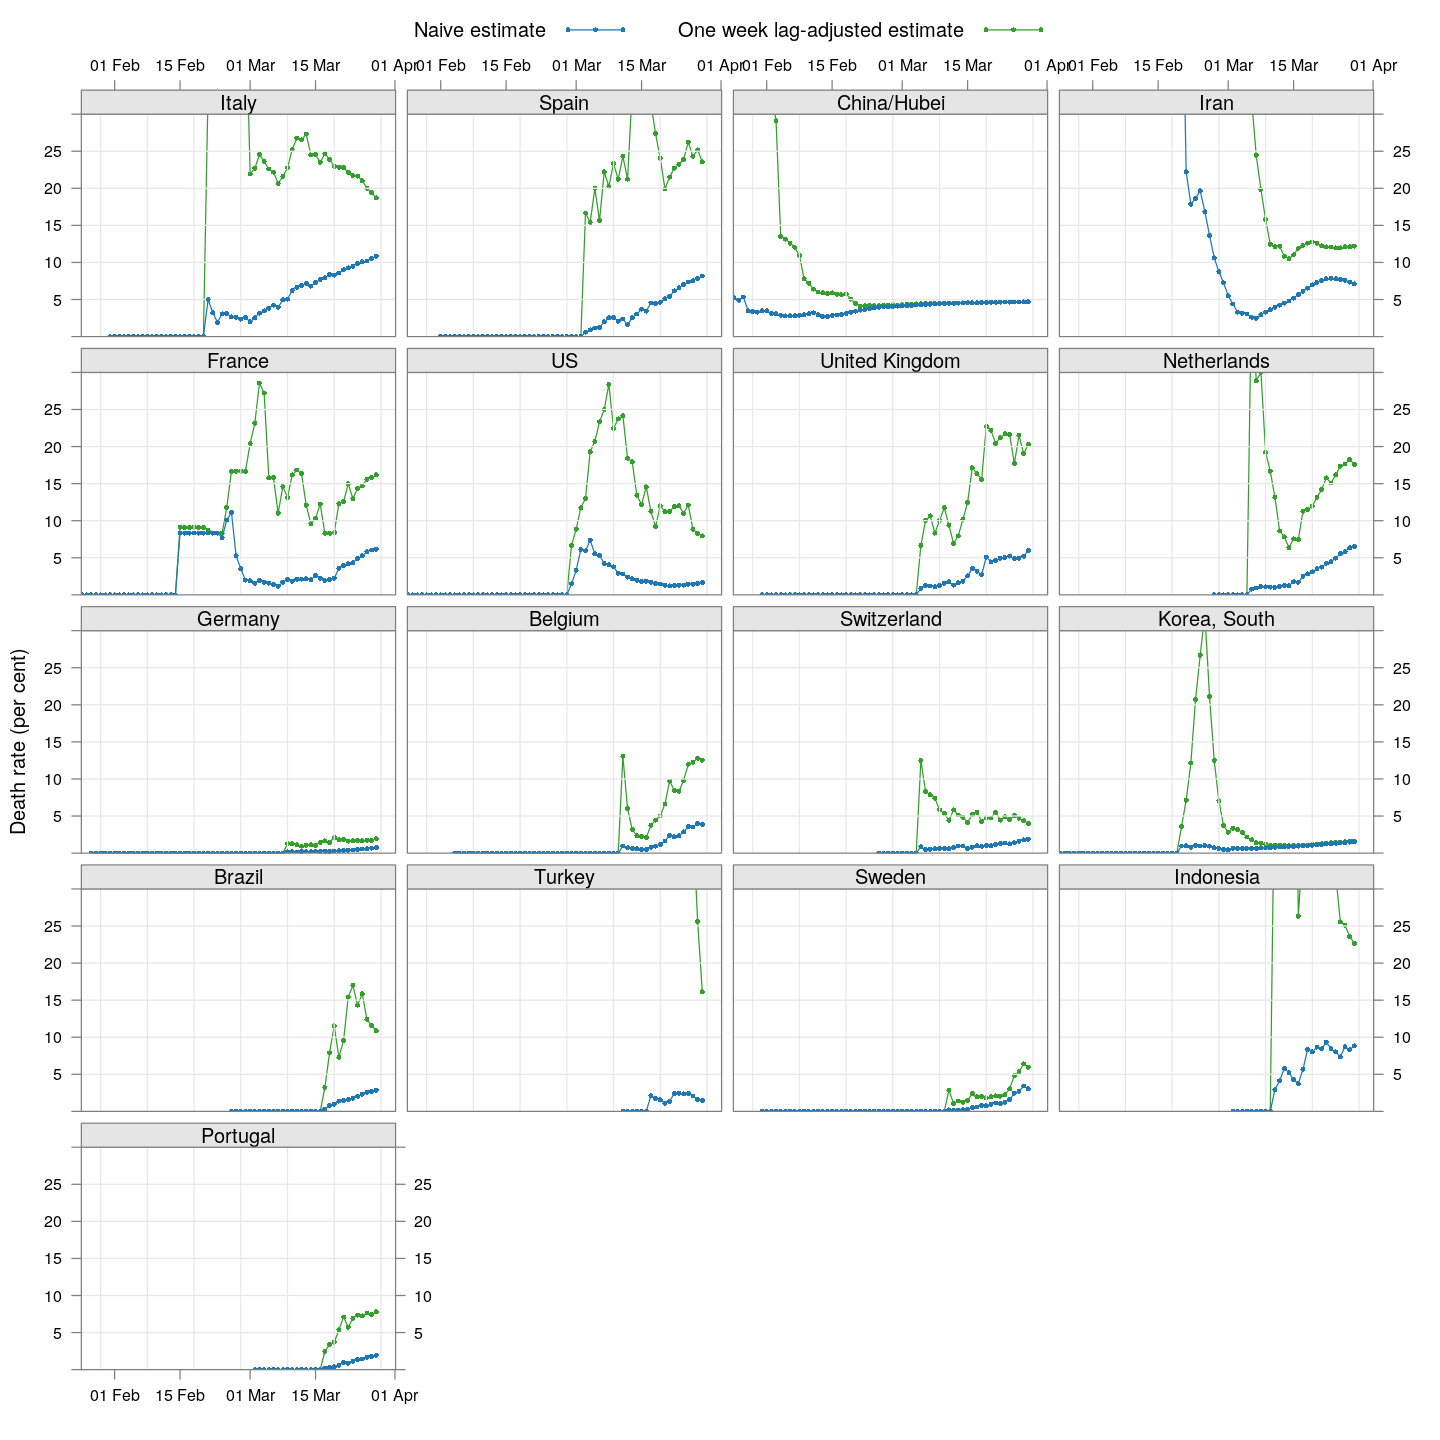
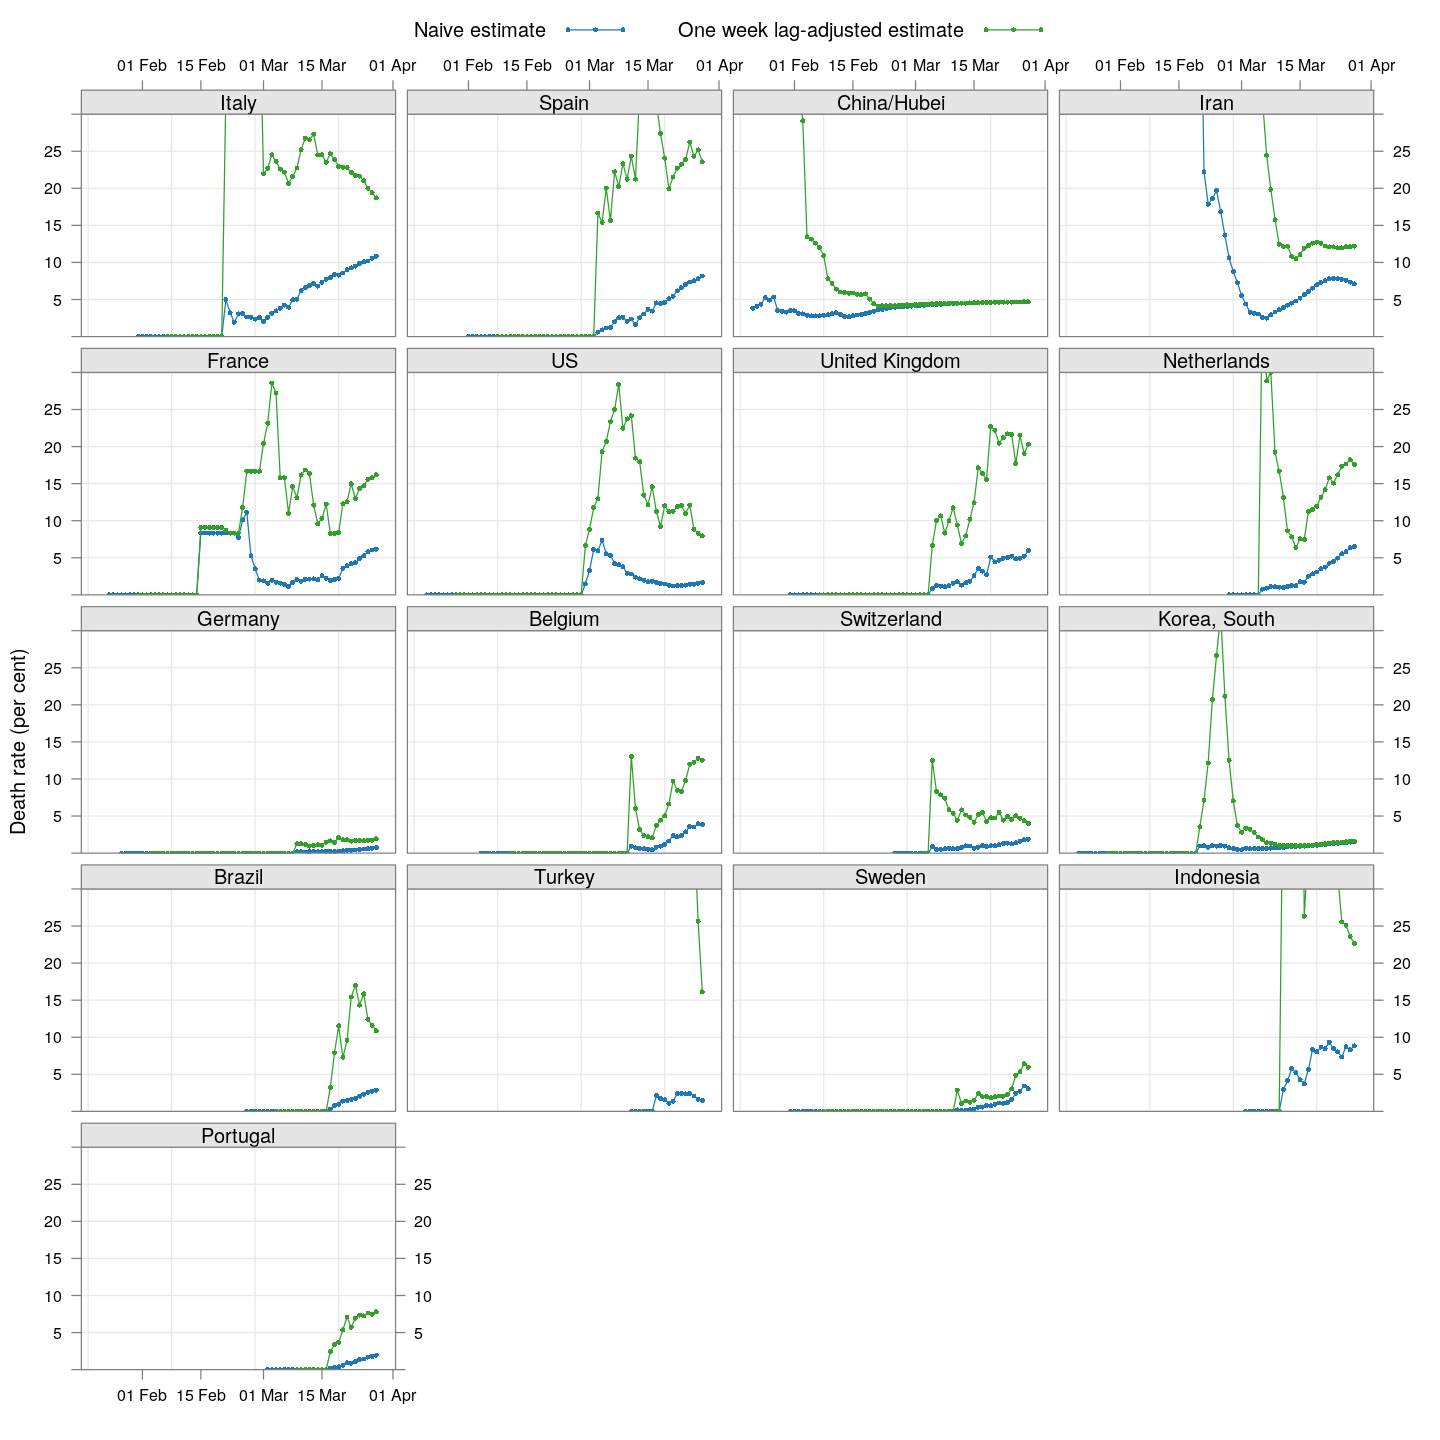
updated plots

diff --git a/covid-19/doubling.md b/covid-19/doubling.md
@@ -118,29 +118,41 @@ xcovid.china <- extractCasesTS(covid.china)
 xcovid.row <- extractCasesTS(covid.row)
 ```
 
-Outside the US and China, which countries are the worst affected in
-terms of the latest absolute numbers so far?
+Outside China, which countries are the worst affected in terms of the
+latest absolute numbers so far? The following plot shows the latest
+counts, and also shows how much the counts have increased in the last
+week. These are on a logarithmic scale, which means that the one-week
+increase is a measure of the percentage increase; larger means faster
+rate of growth.
+
 
 
 ```r
-total.row <- sort(apply(xcovid.row, 2, tail, 1))
-dotplot(tail(total.row, 60),
+total.row <- apply(xcovid.row, 2, tail, 1)
+total.row.1weekago <- apply(xcovid.row, 2, function(x) tail(x, 8)[1])
+torder <- tail(order(total.row), 60)
+dotplot(total.row[torder], total.1weekago = total.row.1weekago[torder],
         xlab = "Total cases (NOTE: log scale)",
-        scales = list(x = list(alternating = 3, log = TRUE,
+        panel = function(x, y, ..., total.1weekago) {
+            panel.segments(x, y, log10(total.1weekago), y,
+                           col = trellis.par.get("plot.line")$col, lwd = 2)
+            panel.dotplot(x, y, ...)
+        },
+        scales = list(x = list(alternating = 3, log = 10,
                                equispaced.log = FALSE)))
 ```
 
 ![plot of chunk unnamed-chunk-4](figures/doubling-unnamed-chunk-4-1.png)
 
 
-
-Unfortunately, the latest numbers don't tell the whole
-story. Different countries are at different stages of the pandemic,
-and just because the numbers are low _now_ does not mean they will
-remain low. We should be more concerned about what is _going_ to
-happen, and that depends on what measures various countries / regions
-are taking. How can we compare countries at various stages of spread
-in terms of something that is actually comparable?
+The latest numbers don't tell the whole story however, even combined
+with the one-week increase. Different countries are at different
+stages of the pandemic, and just because the numbers are low _now_
+does not mean they will remain low. We should be more concerned about
+what is _going_ to happen, and that depends on what measures various
+countries / regions are taking. How can we compare countries at
+various stages of spread in terms of something that is actually
+comparable?
 
 ## The doubling time
 

diff --git a/covid-19/deaths.md b/covid-19/deaths.md
@@ -85,15 +85,19 @@ _recovered_ patients by date is available, but that is not enough).
 
 The plot below shows how the naive death rates (proportion of deaths
 over number of confirmed cases), on any given day, have changed over
-time for countries with at least 100 deaths.^[As [before](doubling),
-we apply a crude "smoothing" to account for lags in updating data: If
-two consecutive days have the same total count followed by a large
-increase on the following day, then the most likely explanation is
-that data was not updated on the second day. In such cases, the count
-of the middle day is replaced by the geometric mean of its
-neighbours.] Although the estimate is eventually (asymptotically)
-supposed to stabilize (as the fraction of "active" cases decreases),
-this has clearly not happened yet for most countries.
+time for countries with at least 100 deaths.[^1] Although the estimate
+is eventually (asymptotically) supposed to stabilize (as the fraction
+of "active" cases decreases), this has clearly not happened yet for
+most countries.
+
+
+[^1]: As [before](doubling), we apply a crude "smoothing" to account
+for lags in updating data: If two consecutive days have the same total
+count followed by a large increase on the following day, then the most
+likely explanation is that data was not updated on the second day. In
+such cases, the count of the middle day is replaced by the geometric
+mean of its neighbours.
+
 
 
 
@@ -177,13 +181,9 @@ dr.adjusted <-
             type = "o", layout = c(4, NA),
             par.settings = simpleTheme(pch = 16, cex = 0.5), 
             col = ct$superpose.symbol$col[2],
-            scales = list(alternating = 3,
-                          x = list(at = xat, labels = format(xat, format = "%d %b")),
-                          y = list(relation = "same")),
-            xlab = NULL, ylab = "Death rate (per cent)",
             as.table = TRUE, between = list(x = 0.5, y = 0.5),
             ylim = c(0, 30))
-update(dr.adjusted + dr.naive,
+update(dr.naive + dr.adjusted, ylim = c(0, 30),
        auto.key = list(lines = TRUE, points = FALSE, columns = 2, type = "o",
                        text = c("Naive estimate", "One week lag-adjusted estimate")))
 ```
